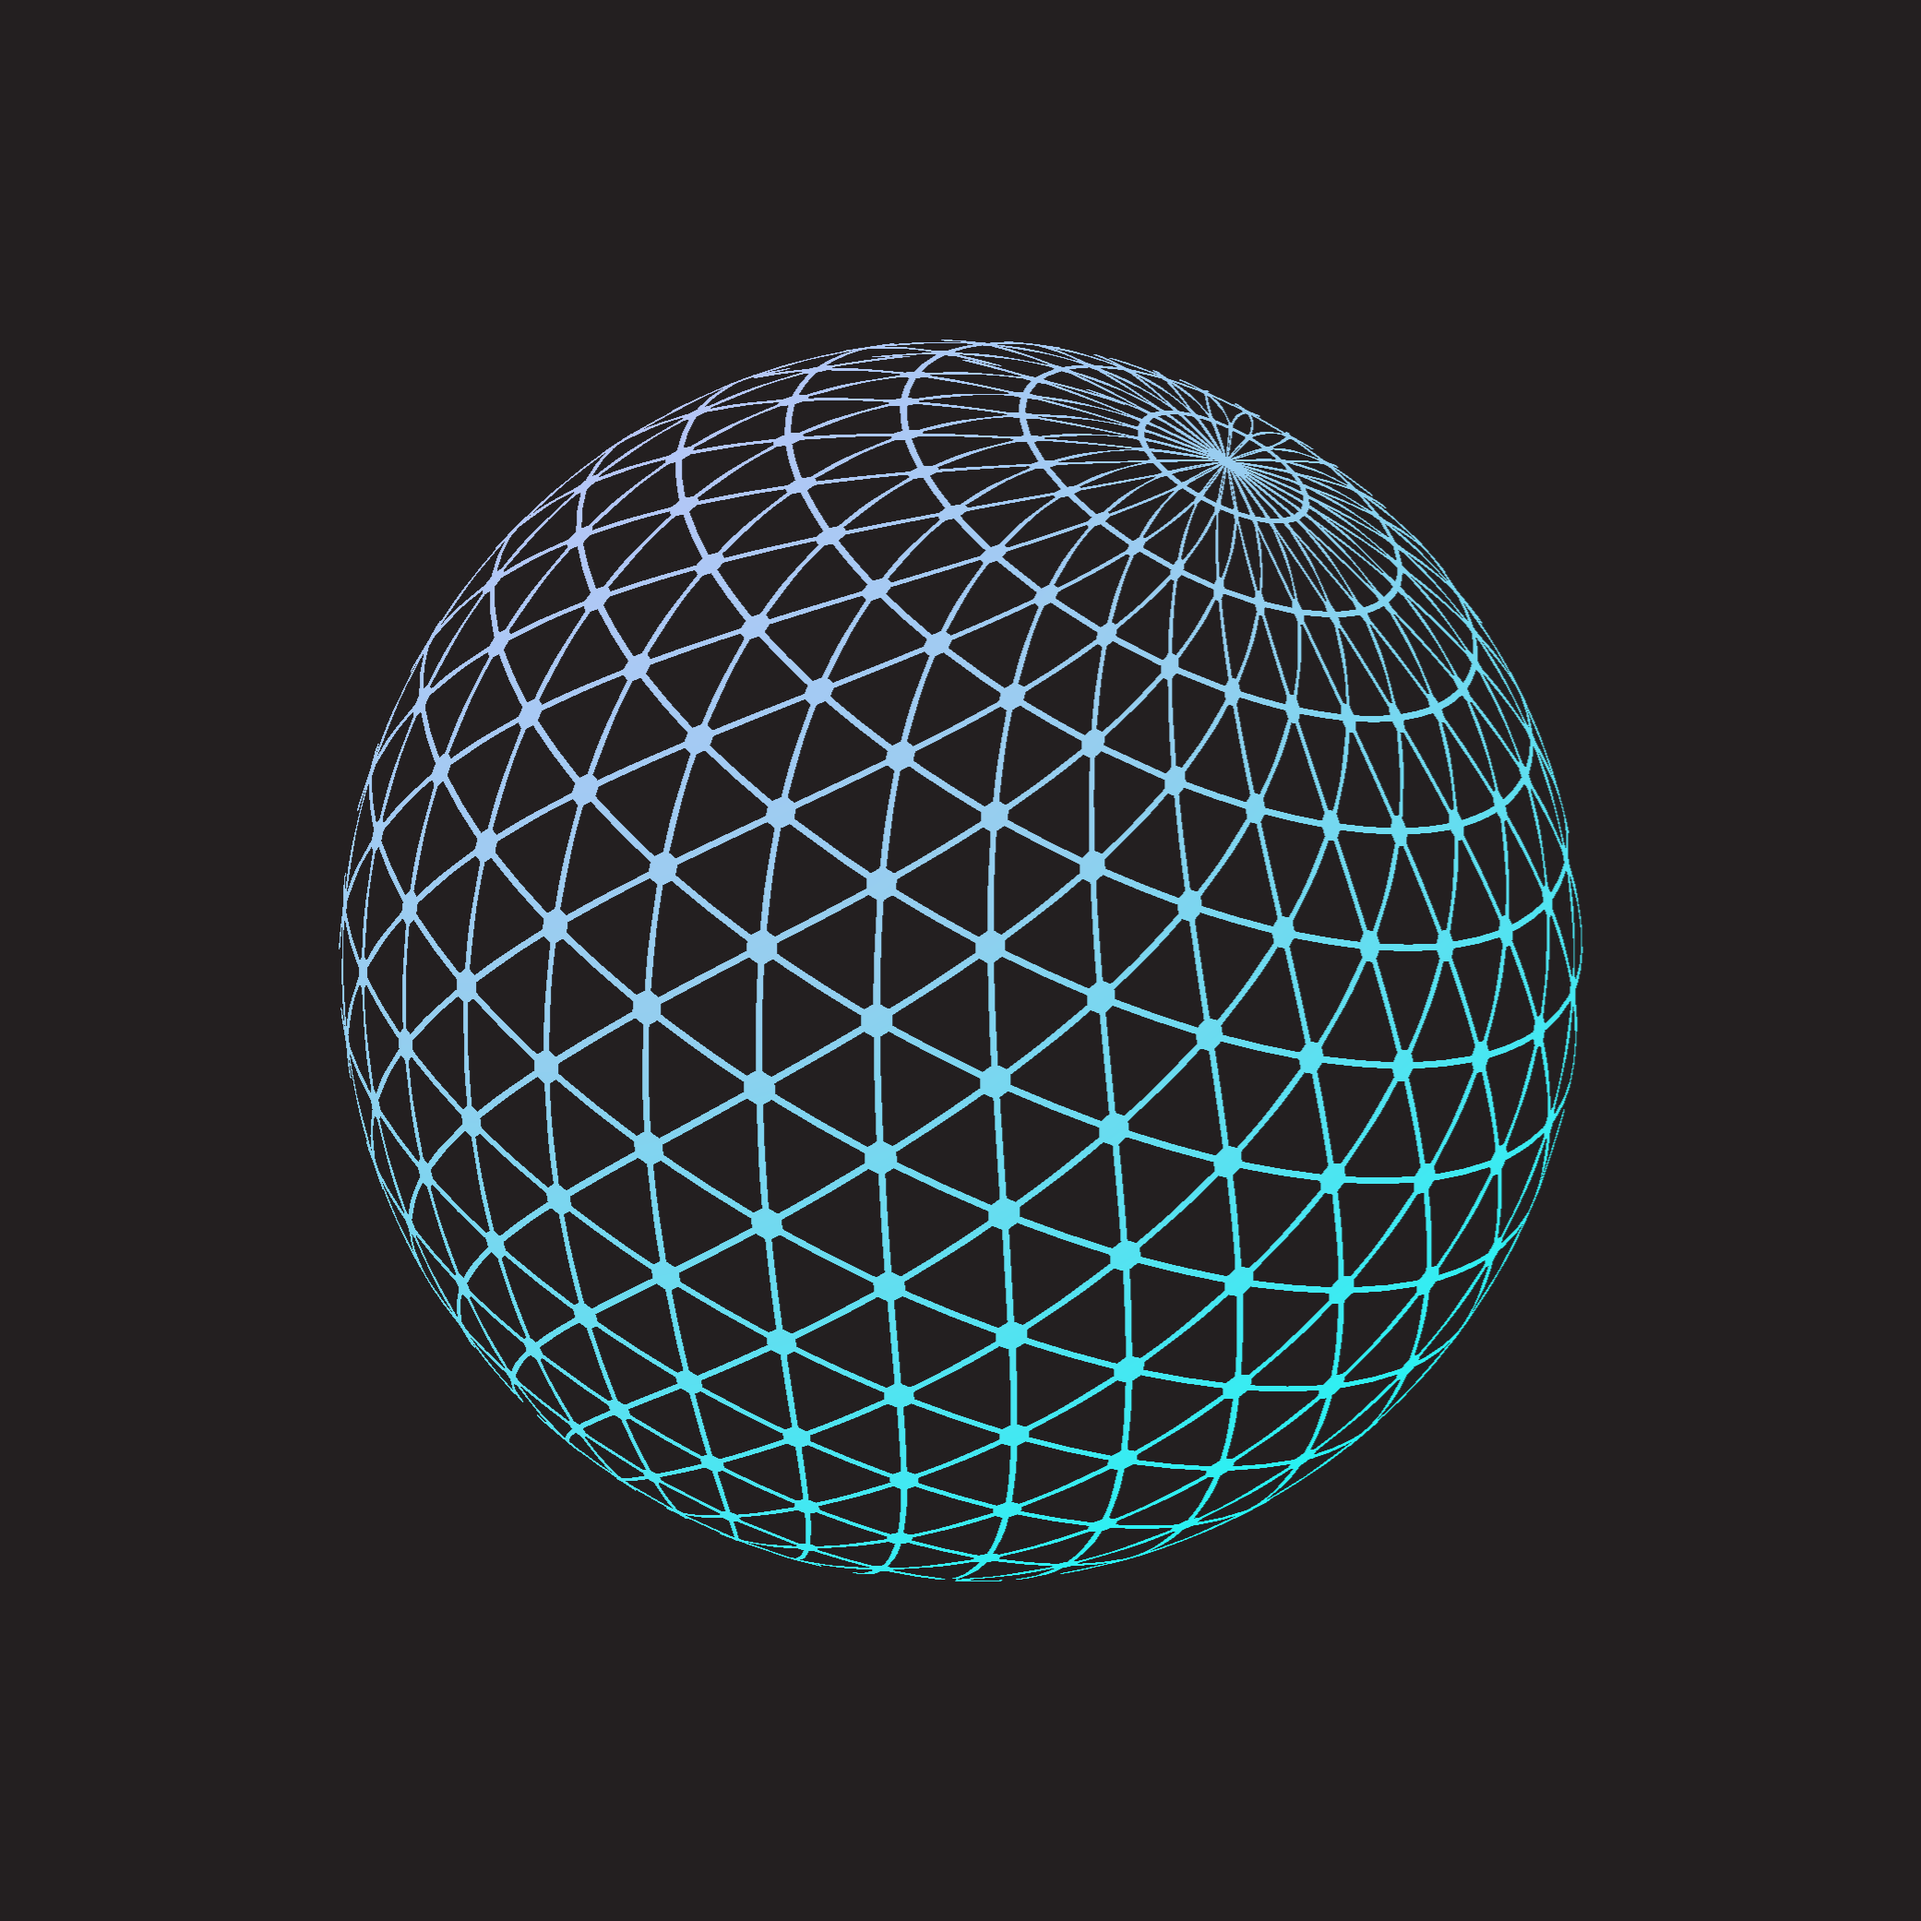
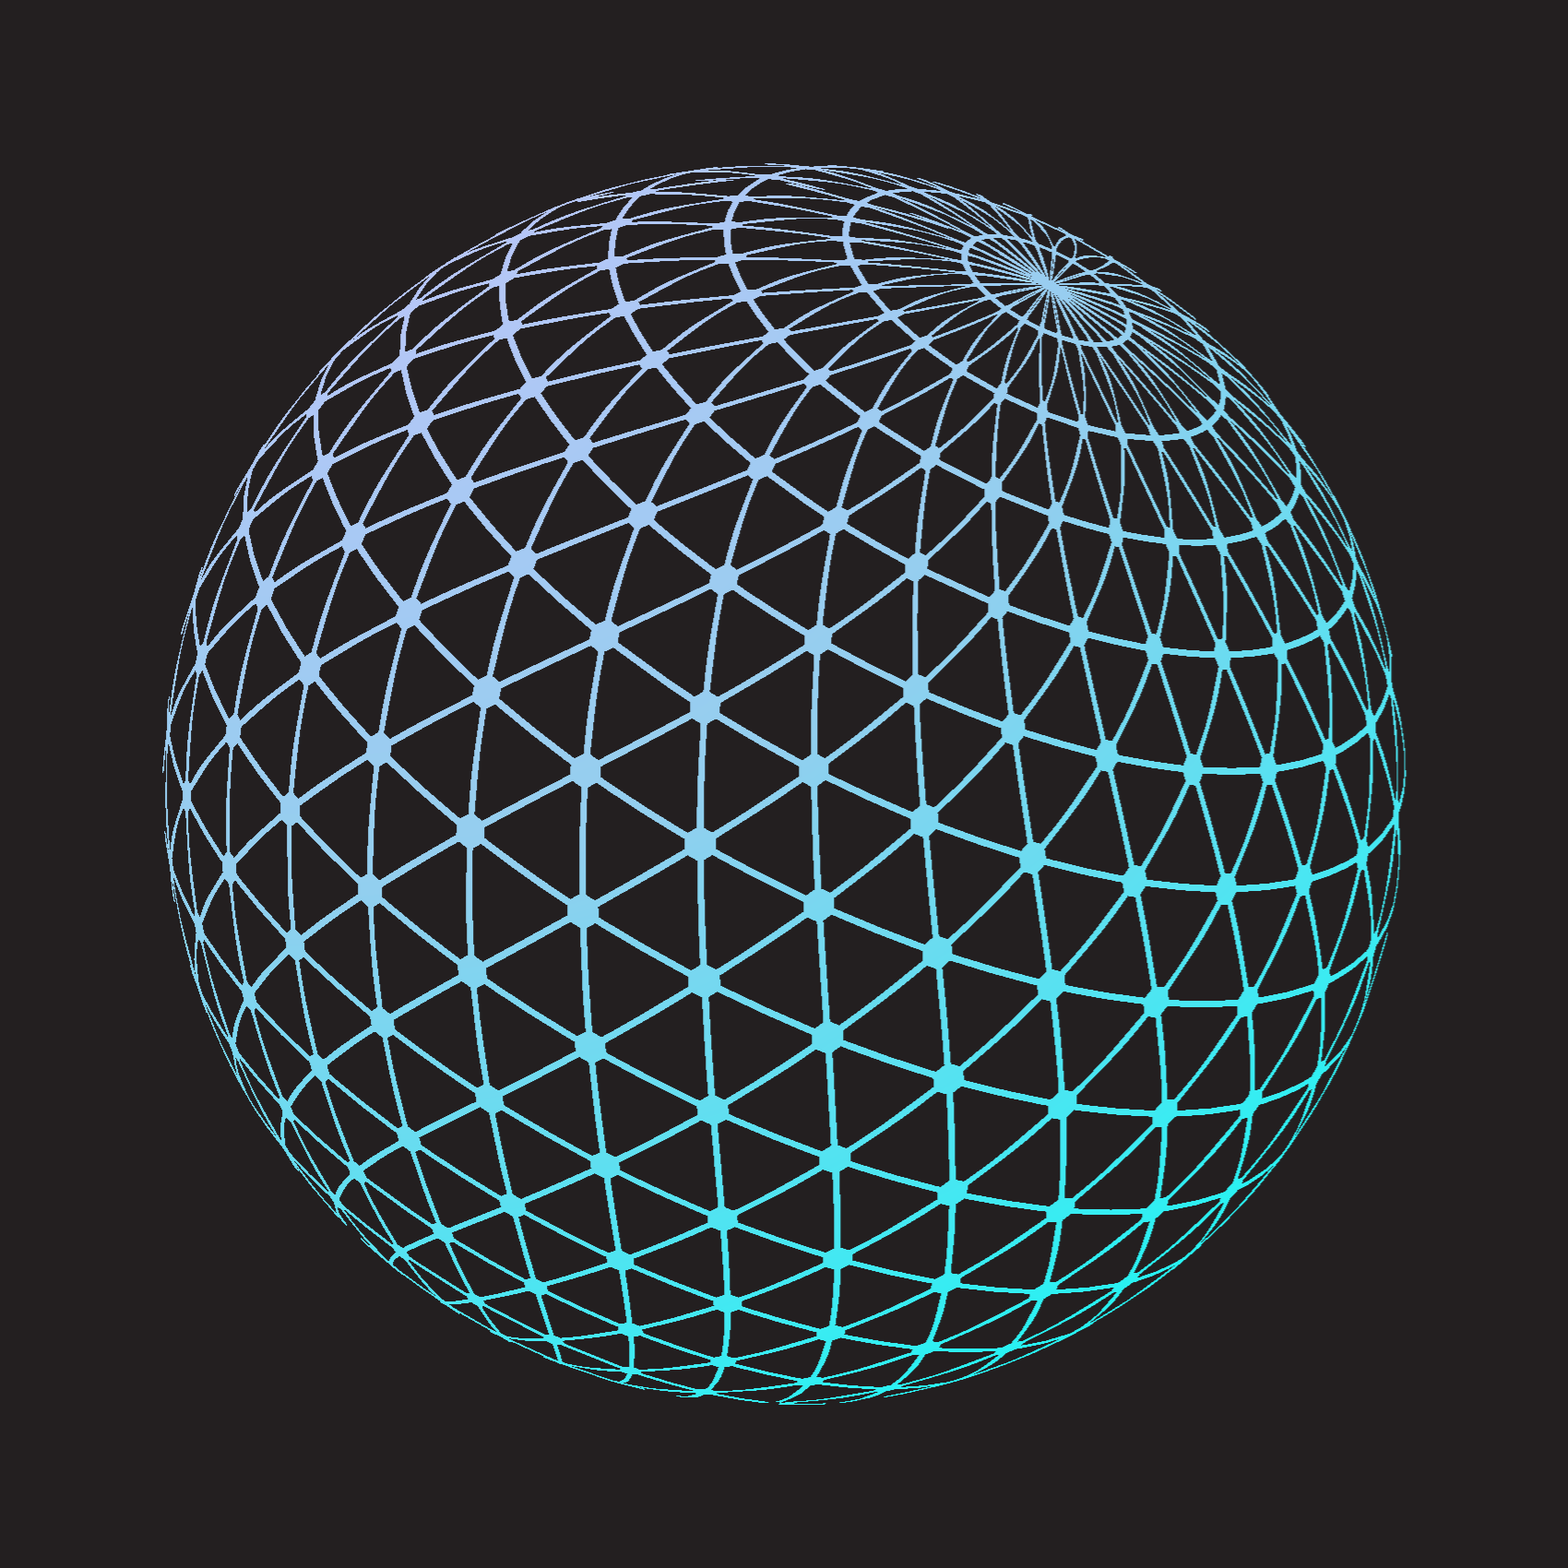
Layout done
Close enough for now

Changed region(s): [[0.0935, 0.0935, 0.9041, 0.9041]]

diff --git a/src/config_window.cpp b/src/config_window.cpp
@@ -12,7 +12,8 @@
 
 #define GUI_WIDTH 1024
 #define GUI_HEIGHT 768
-#define ELEMENT_SIZE 0.95f
+#define NUM_COLUMNS 2
+#define VERTICAL_SPACING 20.0f
 
 ConfigWindow::~ConfigWindow() { if(textureID != 0) glDeleteTextures(1, &textureID); }
 
@@ -41,13 +42,15 @@ bool ConfigWindow::createSettingsWindow() {
 
   if (window == nullptr) return false;
 
+  //Center window
+  ImVec2 windowCenter = {GUI_WIDTH / 2, GUI_HEIGHT / 2};
   int workX, workY, workWidth, workHeight;
   glfwGetMonitorWorkarea(glfwGetPrimaryMonitor(), &workX, &workY, &workWidth,
-                         &workHeight);
+                         &workHeight); 
+  glfwSetWindowPos(window, (int)(workWidth / 2 - windowCenter.x),
+                   (int)(workHeight / 2 - windowCenter.y));
 
-  glfwSetWindowPos(window, workWidth / 2 - GUI_WIDTH / 2,
-                   workHeight / 2 - GUI_HEIGHT / 2);
-
+  //make current context
   glfwMakeContextCurrent(window);
   glfwSwapInterval(1);
 
@@ -64,7 +67,7 @@ bool ConfigWindow::createSettingsWindow() {
   ImGui_ImplGlfw_InitForOpenGL(window, true);
   ImGui_ImplOpenGL3_Init(glsl_version);
   ImVec2 guiSize = {GUI_WIDTH, GUI_HEIGHT};
-  ImVec2 windowCenter = {GUI_WIDTH / 2, GUI_HEIGHT / 2};
+  
 
   // Setup Dear ImGui style
   ImGui::StyleColorsDark();
@@ -98,7 +101,7 @@ bool ConfigWindow::createSettingsWindow() {
     ImGui::BeginGroup(); 
     
     //start of display settings group
-    ImGui::PushItemWidth(GUI_WIDTH / 2 * ELEMENT_SIZE);
+    ImGui::PushItemWidth(ImGui::GetContentRegionAvail().x / NUM_COLUMNS);
     ImGui::BeginGroup(); 
     
     //Resolution
@@ -115,9 +118,13 @@ bool ConfigWindow::createSettingsWindow() {
       }
       ImGui::EndCombo();
     }
+    ImGui::Spacing();
 
     ImGui::Checkbox("Fullscreen", &graphicsSettings.fullscreen);
+    ImGui::Spacing();
+
     ImGui::Checkbox("VSync", &graphicsSettings.vsync);
+    ImGui::Dummy(ImVec2(0.0f, VERTICAL_SPACING));
     
     //Gamma
     ImGui::Text("Gamma");
@@ -125,8 +132,10 @@ bool ConfigWindow::createSettingsWindow() {
                        ImGuiSliderFlags_ClampOnInput);
     ImGui::AlignTextToFramePadding();
     ImGui::Text("(Ctrl+Click to edit)");
+    ImGui::Dummy(ImVec2(0.0f, VERTICAL_SPACING));
     
     //end of display settings
+    ImGui::PopItemWidth();
     ImGui::EndGroup(); 
 
     ImGui::SameLine();
@@ -136,13 +145,14 @@ bool ConfigWindow::createSettingsWindow() {
 
     //Image
     ImGui::Image((ImTextureID)(intptr_t)textureID,
-                 ImVec2(GUI_WIDTH / 2,
-                        GUI_WIDTH / 2));
+        ImVec2(ImGui::GetContentRegionAvail().x,
+                        ImGui::GetContentRegionAvail().x));
 
-    //start of advanced options group
+     // start of advanced options group
+    ImGui::PushItemWidth(ImGui::GetContentRegionAvail().x); 
     ImGui::BeginGroup();
     ImGui::SeparatorText("Advanced Options");
-
+    
     //MSAA
     ImGui::Text("MSAA");
     if (ImGui::BeginCombo("##msaaCombo", msaa_preview_value,
@@ -174,6 +184,7 @@ bool ConfigWindow::createSettingsWindow() {
     }
 
     //end of advanced settigns
+    ImGui::PopItemWidth();
     ImGui::EndGroup();
 
     //end of image and advanced settings
@@ -181,11 +192,14 @@ bool ConfigWindow::createSettingsWindow() {
 
     //end of display settings, image, and advanced options group
     ImGui::EndGroup();
-    ImGui::PopItemWidth();
 
-    ImGui::SetCursorPos(
-        ImVec2(GUI_WIDTH * (1.0 - ELEMENT_SIZE), GUI_HEIGHT * ELEMENT_SIZE));
+    ImVec2 windowPadding = ImGui::GetStyle().WindowPadding;
+    ImVec2 windowSize = ImGui::GetWindowSize();
+    ImVec2 windowPosition = ImGui::GetWindowPos();
+    float buttonHeight = ImGui::GetFrameHeight();
 
+    ImGui::SetCursorScreenPos(ImVec2(
+        windowPadding.x, windowPosition.y + windowSize.y - buttonHeight - windowPadding.y));
     if (ImGui::Button("Cancel")) {
       ImGui_ImplOpenGL3_Shutdown();
       ImGui_ImplGlfw_Shutdown();
@@ -195,7 +209,14 @@ bool ConfigWindow::createSettingsWindow() {
       glfwTerminate();
       return false;
     }
+
     ImGui::SameLine();
+
+    float buttonWidth = ImGui::CalcTextSize("Confirm").x;
+
+    ImGui::SetCursorScreenPos(ImVec2(
+        windowPosition.x + windowSize.x - (windowPadding.x * 2.0f) - buttonWidth,
+        windowPosition.y + windowSize.y - buttonHeight - windowPadding.y));
     if (ImGui::Button("Confirm")) glfwSetWindowShouldClose(window, true);
 
     //End
